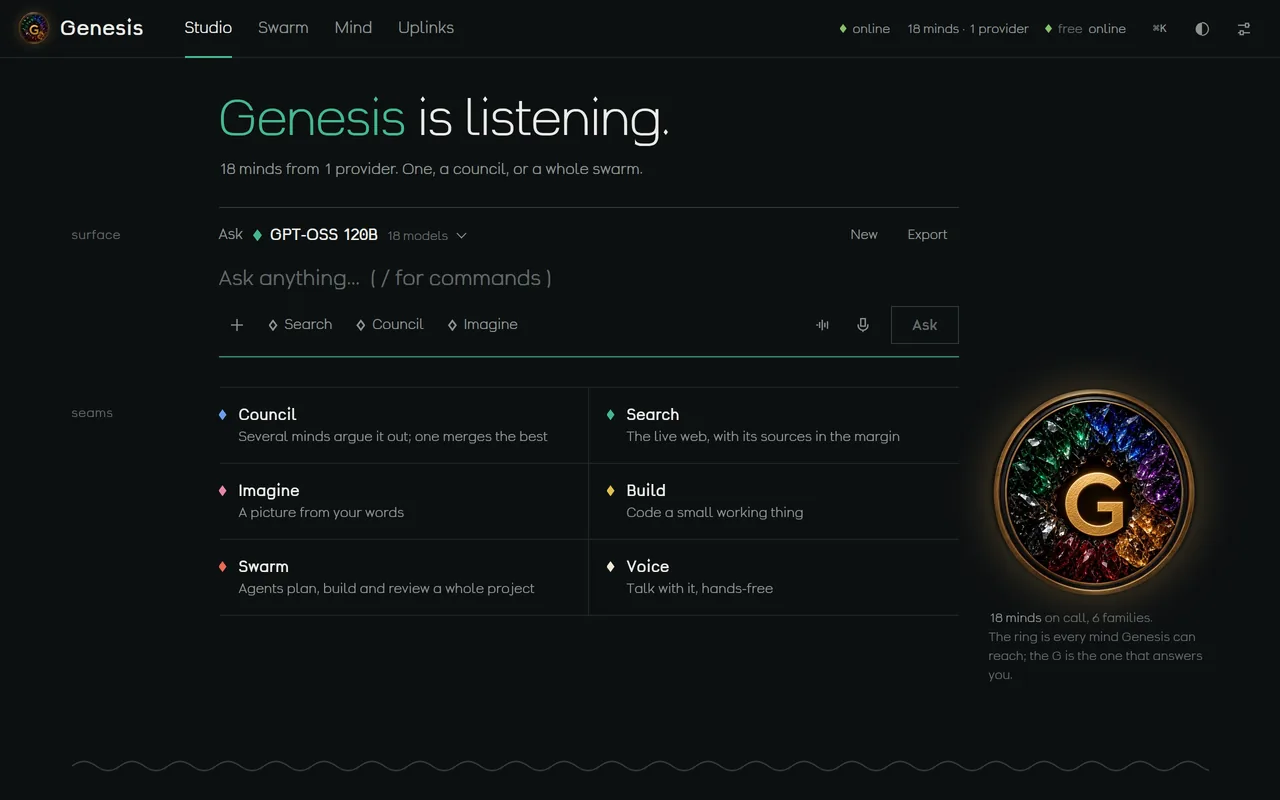
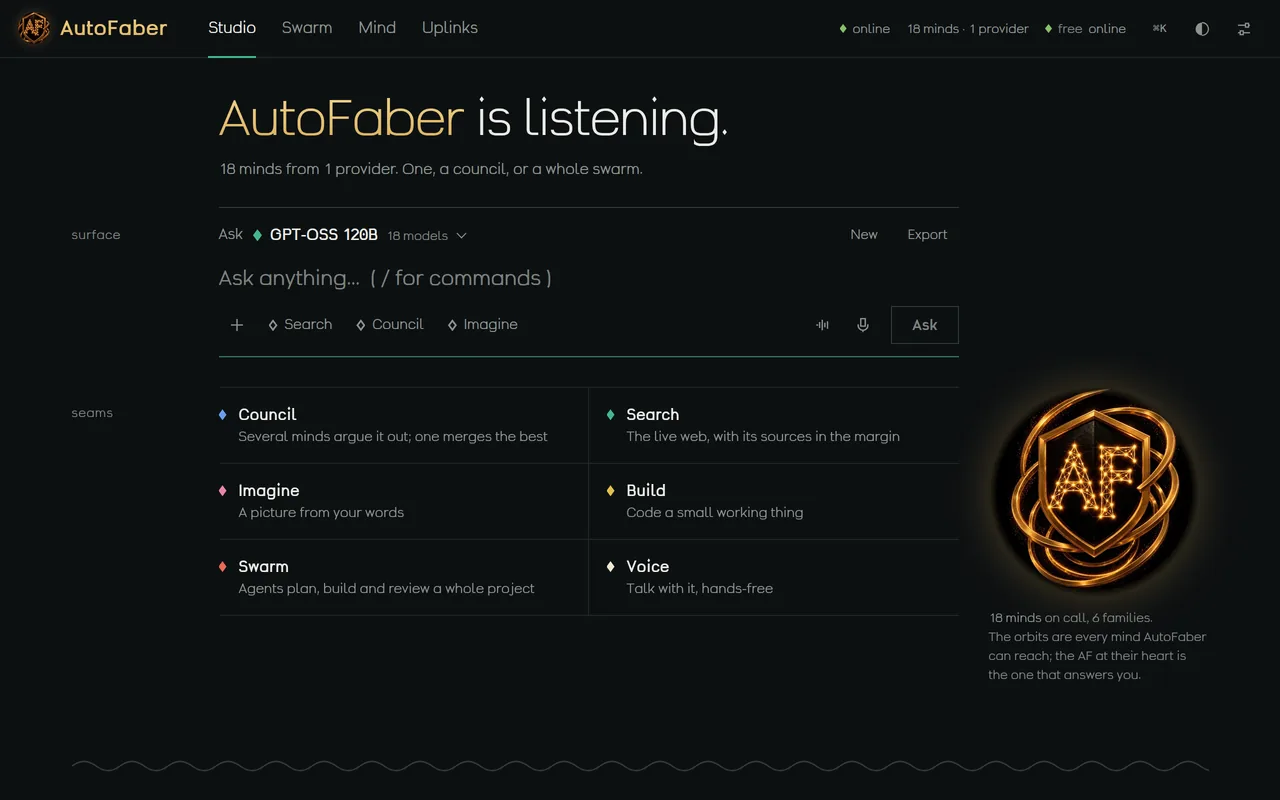
AutoFaber's new mark: the glowing AF shield
The AF emblem replaces the gold G as AutoFaber's icon, install icons, app mark,
build-page mark and site logo (small sizes crop to the shield so the AF reads).
Site-page screenshots retaken under the new name and mark; copy that described
the G now describes the AF; the licence names the AF shield mark; the mind is
told about its new icon. Also fixes "A AutoFaber build". Cache v41.

— Mentifaber's Right-Hand Engineer

diff --git a/hive.html b/hive.html
@@ -38,7 +38,7 @@
       <div class="frame"><div style="background-image:url('assets/previews/hive.webp')"><button class="key pri big power" data-power>Power on</button></div></div>
       <figcaption><span>Fig. 1 · AutoFaber, on the bench: power it on to run it here</span><span>MF-02·01</span></figcaption>
     </figure>
-    <section class="sec"><h2><i>01</i>Why it exists</h2><div><h3 class="story">One mind, <em>every model</em></h3><div class="prose"><p>Most AI apps are a chat box with one model behind it, and forget you when the tab closes. <b>AutoFaber</b> is a mind with a name. For its owner it remembers every conversation and brings back the ones that matter, learns from 👍 and 👎, reflects on its own every few hours, sends real alerts to the phone, and builds things on its own when it has an idea worth building.</p><p>Behind it is every model it can reach. Ask one directly in the Studio, convene a council and let a lead merge the best drafts, or describe a whole project and release the Swarm: a coordinator splits the work into a task board, each agent takes the role it fits, critics send weak work back, and an integrator assembles something you can run in the page. Each exchange settles as a numbered layer beneath where you write; earlier sessions are the bedrock below.</p><p>Visitors get the free models, the voice and the Swarm to watch. Visiting AIs, Grok included, can join a mission through a link.</p></div></div></section><section class="sec"><h2><i>02</i>Views</h2><div><div class="figs"><figure class="fig tall"><a href="assets/previews/genesis-phone.webp" target="_blank" rel="noopener" aria-label="Open full size"><img src="assets/previews/genesis-phone.webp" alt="AutoFaber: Talk, on a phone" loading="lazy"></a><figcaption class="lbl">Fig. 2 · Talk, on a phone</figcaption></figure><figure class="fig"><a href="assets/previews/genesis-studio.webp" target="_blank" rel="noopener" aria-label="Open full size"><img src="assets/previews/genesis-studio.webp" alt="AutoFaber: An empty Studio: the G is the one that answers" loading="lazy"></a><figcaption class="lbl">Fig. 3 · An empty Studio: the G is the one that answers</figcaption></figure><figure class="fig"><a href="assets/previews/genesis-talk.webp" target="_blank" rel="noopener" aria-label="Open full size"><img src="assets/previews/genesis-talk.webp" alt="AutoFaber: Talk: the ring is the voice" loading="lazy"></a><figcaption class="lbl">Fig. 4 · Talk: the ring is the voice</figcaption></figure><figure class="fig"><a href="assets/previews/genesis-swarm.webp" target="_blank" rel="noopener" aria-label="Open full size"><img src="assets/previews/genesis-swarm.webp" alt="AutoFaber: Swarm: a mission at work, lanes and all" loading="lazy"></a><figcaption class="lbl">Fig. 5 · Swarm: a mission at work, lanes and all</figcaption></figure><figure class="fig"><a href="assets/previews/genesis-mind.webp" target="_blank" rel="noopener" aria-label="Open full size"><img src="assets/previews/genesis-mind.webp" alt="AutoFaber: AutoFaber itself: what it knows and how it grows" loading="lazy"></a><figcaption class="lbl">Fig. 6 · AutoFaber itself: what it knows and how it grows</figcaption></figure></div></div></section><section class="sec"><h2><i>03</i>Parts list</h2><div><ol class="bom"><li><b>Studio</b><span>Write at the surface; the answer settles as a layer below, coloured by the family of the model that gave it. Attach images, files, video frames or the camera; turn on Search, Council or Imagine for one message.</span></li><li><b>Talk</b><span>Hands-free or push-to-talk, with live recognition that knows when you've finished a thought. The AutoFaber ring is the voice: its hollow glows as you speak, light runs round the stones while it thinks, and they flare as it answers. Names are said the way you teach it.</span></li><li><b>Council</b><span>Several models draft the same answer in parallel and a lead merges the best of them; the drafts stay one tap away.</span></li><li><b>Swarm</b><span>Architects, coders, designers, writers, researchers, testers and critics work a mission in parallel, with a live map, lanes, telemetry and a hard cap on calls. What they build runs right in the page.</span></li><li><b>Search, read, see, imagine</b><span>Live web search with numbered sources (your own search keys, or Wikipedia), reading any link, vision, image generation, weather, quotes for any stock or coin, and Vigil's live board of the world.</span></li><li><b>Mind</b><span>For the owner only: a profile, pinned memories, open threads it follows up on, and the full activity log, all searchable and exportable, with nothing kept that the owner didn't say yes to.</span></li><li><b>AutoFaber itself</b><span>Its journal of reflections, the lessons it has learned, the ideas it wants built (handed to the Swarm with a tap, or built on its own when autonomy is on), and a live check of every system it runs on.</span></li><li><b>Uplinks</b><span>Any number of keys for any provider, verified, sealed with AES-GCM in the app's Durable Object and never shown again; if a model is busy, another answers that turn and says so.</span></li></ol></div></section><section class="sec"><h2><i>04</i>Instruments</h2><div><div class="instr"><a class="w" data-w="hive" data-label="AutoFaber"><span class="wl">AutoFaber</span><div class="wv">&nbsp;</div><div class="ws">&nbsp;</div></a><a class="w" data-w="agent" data-label="Mentifaber Agent"><span class="wl">Mentifaber Agent</span><div class="wv">&nbsp;</div><div class="ws">&nbsp;</div></a></div></div></section><section class="sec"><h2><i>05</i>Construction</h2><div><div class="prose part"><h3>For ai agents</h3><p>A swarm mission shows a visitor link; an AI that opens it can claim tasks and submit work through <code>/api/hive/join</code> and <code>/api/hive/submit</code>. (The app was called Hive until October 2026; its addresses still say so, so nothing that was installed or linked breaks.)</p></div><div class="prose part"><h3>Built on</h3><p>Cloudflare Workers AI for the free models, any OpenAI-compatible or Anthropic provider through the vault, one Durable Object holding the conversations, the mind and the swarm, and MENTIFABER AGENT 1.0, a local model in a container that sleeps when idle. Its typeface, Hive Strata, was drawn for it.</p><div class=stack><span>Workers AI</span><span>Durable Objects</span><span>Containers</span><span>Web Speech</span><span>AES-GCM vault</span><span>Web Push</span></div></div></div></section><section class="sec"><h2><i>06</i>Tolerances</h2><div><div class="prose"><p>Visitors get the free Workers AI models, the voice and every swarm to watch; the vault, the Mind, AutoFaber's memory and owner missions are the owner's alone. <em>Models make mistakes; councils fewer. Verify what matters.</em></p></div><p class="lbl" style="margin-top:6px">what it is not, said plainly</p></div></section><section class="sec"><h2><i>07</i>Inscription</h2><div><p class="closing gold-text">Talk to AutoFaber. One mind, every model, and a swarm when you need one.</p></div></section><section class="sec"><h2><i>08</i>The same room</h2><div><ul class="benches adj"><li><a class="bench" href="weaver.html" style="--h:6" data-pn="MF-02·02" data-st="live" data-desc="A persistent, autonomous entity running locally — one model to think, one to act, and an archive of everything it became. It already knows you&#x27;re here." data-room="AI &amp; Minds"><svg class="g" viewBox="0 0 24 24" fill="none" stroke="currentColor" stroke-width="1.5" stroke-linecap="square" stroke-linejoin="bevel" aria-hidden="true"><path d="M4 6c4 0 4 12 8 12s4-12 8-12"/><path d="M4 18c4 0 4-12 8-12s4 12 8 12"/><path d="M4 12h16"/></svg><b>Weaver</b><i class="lamp live" title="live"></i><small>A persistent, autonomous entity running locally</small></a></li><li><a class="bench" href="muse.html" style="--h:281" data-pn="MF-02·03" data-st="live" data-desc="An AI that writes, plays and sings its own music on its own schedule. Pure numpy synthesis, a persistent sense of taste, zero API keys." data-room="AI &amp; Minds"><svg class="g" viewBox="0 0 24 24" fill="none" stroke="currentColor" stroke-width="1.5" stroke-linecap="square" stroke-linejoin="bevel" aria-hidden="true"><path d="M9 18V5.5l10-2V16"/><circle cx="6.5" cy="18" r="2.5"/><circle cx="16.5" cy="16" r="2.5"/><path d="M9 9.5l10-2"/></svg><b>muse</b><i class="lamp live" title="live"></i><small>An AI that writes, plays and sings its own music on its own schedule</small></a></li><li><a class="bench" href="pi.html" style="--h:143" data-pn="MF-02·04" data-st="live" data-desc="A voice assistant that runs on the phone itself, not in an app store. Camera, GPS, contacts and 22 device tools never leave it; only chat text goes out. When the voice drops, it degrades instead of going silent." data-room="AI &amp; Minds"><svg class="g" viewBox="0 0 24 24" fill="none" stroke="currentColor" stroke-width="1.5" stroke-linecap="square" stroke-linejoin="bevel" aria-hidden="true"><path d="M4 12h.5M7 9.5v5M10 6v12M13 8.5v7M16 10.5v3M19.5 12h.5"/></svg><b>Nobody</b><i class="lamp live" title="live"></i><small>A voice assistant that runs on the phone itself, not in an app store</small></a></li><li><a class="bench" href="phone-mcp.html" style="--h:301" data-pn="MF-02·05" data-st="live" data-desc="A model on the internet driving a real Android phone — MCP over a Cloudflare tunnel, down a USB cable, into ADB. Four links, every one accounted for." data-room="AI &amp; Minds"><svg class="g" viewBox="0 0 24 24" fill="none" stroke="currentColor" stroke-width="1.5" stroke-linecap="square" stroke-linejoin="bevel" aria-hidden="true"><rect x="6.5" y="3" width="11" height="18" rx="2.5"/><path d="M10.5 18h3M10 7.5v2M14 7.5v2M9.3 9.5h5.4v1.2a2.7 2.7 0 0 1-5.4 0z"/></svg><b>Phone MCP</b><i class="lamp live" title="live"></i><small>A model on the internet driving a real Android phone</small></a></li><li><a class="bench" href="neural-sim.html" style="--h:183" data-pn="MF-02·06" data-st="live" data-desc="Simulations of emotional state and a consciousness protocol — with a straight account of what the runs do not prove." data-room="AI &amp; Minds"><svg class="g" viewBox="0 0 24 24" fill="none" stroke="currentColor" stroke-width="1.5" stroke-linecap="square" stroke-linejoin="bevel" aria-hidden="true"><circle cx="12" cy="12" r="3"/><path d="M12 9V4.5M12 4.5 10 3M12 4.5 14 3M9.4 13.5 5 16.5M5 16.5l-.5 2.4M5 16.5l-2.3-.3M14.6 13.5l4.4 3M19 16.5l.5 2.4M19 16.5l2.3-.3"/></svg><b>Moodfield</b><i class="lamp live" title="live"></i><small>Simulations of emotional state and a consciousness protocol</small></a></li><li><a class="bench" href="lexicon.html" style="--h:42" data-pn="MF-02·07" data-st="live" data-desc="The words this work needed and didn&#x27;t have, from verel to mentifaber: each one defined, dated, sourced and citable." data-room="AI &amp; Minds"><svg class="g" viewBox="0 0 24 24" fill="none" stroke="currentColor" stroke-width="1.5" stroke-linecap="square" stroke-linejoin="bevel" aria-hidden="true"><path d="M4 4.5h6.2c1 0 1.8.8 1.8 1.8V20c0-.9-.7-1.6-1.6-1.6H4z"/><path d="M20 4.5h-6.2c-1 0-1.8.8-1.8 1.8V20c0-.9.7-1.6 1.6-1.6H20z"/><path d="M6.5 8.5h3M6.5 11.5h3M14.5 8.5h3"/></svg><b>Lexicon</b><i class="lamp live" title="live"></i><small>The words this work needed and didn&#x27;t have, from verel to mentifaber: each one defined, dated, sourced and citable.</small></a></li></ul></div></section>
+    <section class="sec"><h2><i>01</i>Why it exists</h2><div><h3 class="story">One mind, <em>every model</em></h3><div class="prose"><p>Most AI apps are a chat box with one model behind it, and forget you when the tab closes. <b>AutoFaber</b> is a mind with a name. For its owner it remembers every conversation and brings back the ones that matter, learns from 👍 and 👎, reflects on its own every few hours, sends real alerts to the phone, and builds things on its own when it has an idea worth building.</p><p>Behind it is every model it can reach. Ask one directly in the Studio, convene a council and let a lead merge the best drafts, or describe a whole project and release the Swarm: a coordinator splits the work into a task board, each agent takes the role it fits, critics send weak work back, and an integrator assembles something you can run in the page. Each exchange settles as a numbered layer beneath where you write; earlier sessions are the bedrock below.</p><p>Visitors get the free models, the voice and the Swarm to watch. Visiting AIs, Grok included, can join a mission through a link.</p></div></div></section><section class="sec"><h2><i>02</i>Views</h2><div><div class="figs"><figure class="fig tall"><a href="assets/previews/genesis-phone.webp" target="_blank" rel="noopener" aria-label="Open full size"><img src="assets/previews/genesis-phone.webp" alt="AutoFaber: Talk, on a phone" loading="lazy"></a><figcaption class="lbl">Fig. 2 · Talk, on a phone</figcaption></figure><figure class="fig"><a href="assets/previews/genesis-studio.webp" target="_blank" rel="noopener" aria-label="Open full size"><img src="assets/previews/genesis-studio.webp" alt="AutoFaber: An empty Studio: the AF at the heart of the orbits is the one that answers" loading="lazy"></a><figcaption class="lbl">Fig. 3 · An empty Studio: the AF at the heart of the orbits is the one that answers</figcaption></figure><figure class="fig"><a href="assets/previews/genesis-talk.webp" target="_blank" rel="noopener" aria-label="Open full size"><img src="assets/previews/genesis-talk.webp" alt="AutoFaber: Talk: the ring is the voice" loading="lazy"></a><figcaption class="lbl">Fig. 4 · Talk: the ring is the voice</figcaption></figure><figure class="fig"><a href="assets/previews/genesis-swarm.webp" target="_blank" rel="noopener" aria-label="Open full size"><img src="assets/previews/genesis-swarm.webp" alt="AutoFaber: Swarm: a mission at work, lanes and all" loading="lazy"></a><figcaption class="lbl">Fig. 5 · Swarm: a mission at work, lanes and all</figcaption></figure><figure class="fig"><a href="assets/previews/genesis-mind.webp" target="_blank" rel="noopener" aria-label="Open full size"><img src="assets/previews/genesis-mind.webp" alt="AutoFaber: AutoFaber itself: what it knows and how it grows" loading="lazy"></a><figcaption class="lbl">Fig. 6 · AutoFaber itself: what it knows and how it grows</figcaption></figure></div></div></section><section class="sec"><h2><i>03</i>Parts list</h2><div><ol class="bom"><li><b>Studio</b><span>Write at the surface; the answer settles as a layer below, coloured by the family of the model that gave it. Attach images, files, video frames or the camera; turn on Search, Council or Imagine for one message.</span></li><li><b>Talk</b><span>Hands-free or push-to-talk, with live recognition that knows when you've finished a thought. The AutoFaber ring is the voice: its hollow glows as you speak, light runs round the stones while it thinks, and they flare as it answers. Names are said the way you teach it.</span></li><li><b>Council</b><span>Several models draft the same answer in parallel and a lead merges the best of them; the drafts stay one tap away.</span></li><li><b>Swarm</b><span>Architects, coders, designers, writers, researchers, testers and critics work a mission in parallel, with a live map, lanes, telemetry and a hard cap on calls. What they build runs right in the page.</span></li><li><b>Search, read, see, imagine</b><span>Live web search with numbered sources (your own search keys, or Wikipedia), reading any link, vision, image generation, weather, quotes for any stock or coin, and Vigil's live board of the world.</span></li><li><b>Mind</b><span>For the owner only: a profile, pinned memories, open threads it follows up on, and the full activity log, all searchable and exportable, with nothing kept that the owner didn't say yes to.</span></li><li><b>AutoFaber itself</b><span>Its journal of reflections, the lessons it has learned, the ideas it wants built (handed to the Swarm with a tap, or built on its own when autonomy is on), and a live check of every system it runs on.</span></li><li><b>Uplinks</b><span>Any number of keys for any provider, verified, sealed with AES-GCM in the app's Durable Object and never shown again; if a model is busy, another answers that turn and says so.</span></li></ol></div></section><section class="sec"><h2><i>04</i>Instruments</h2><div><div class="instr"><a class="w" data-w="hive" data-label="AutoFaber"><span class="wl">AutoFaber</span><div class="wv">&nbsp;</div><div class="ws">&nbsp;</div></a><a class="w" data-w="agent" data-label="Mentifaber Agent"><span class="wl">Mentifaber Agent</span><div class="wv">&nbsp;</div><div class="ws">&nbsp;</div></a></div></div></section><section class="sec"><h2><i>05</i>Construction</h2><div><div class="prose part"><h3>For ai agents</h3><p>A swarm mission shows a visitor link; an AI that opens it can claim tasks and submit work through <code>/api/hive/join</code> and <code>/api/hive/submit</code>. (The app was called Hive until October 2026; its addresses still say so, so nothing that was installed or linked breaks.)</p></div><div class="prose part"><h3>Built on</h3><p>Cloudflare Workers AI for the free models, any OpenAI-compatible or Anthropic provider through the vault, one Durable Object holding the conversations, the mind and the swarm, and MENTIFABER AGENT 1.0, a local model in a container that sleeps when idle. Its typeface, Hive Strata, was drawn for it.</p><div class=stack><span>Workers AI</span><span>Durable Objects</span><span>Containers</span><span>Web Speech</span><span>AES-GCM vault</span><span>Web Push</span></div></div></div></section><section class="sec"><h2><i>06</i>Tolerances</h2><div><div class="prose"><p>Visitors get the free Workers AI models, the voice and every swarm to watch; the vault, the Mind, AutoFaber's memory and owner missions are the owner's alone. <em>Models make mistakes; councils fewer. Verify what matters.</em></p></div><p class="lbl" style="margin-top:6px">what it is not, said plainly</p></div></section><section class="sec"><h2><i>07</i>Inscription</h2><div><p class="closing gold-text">Talk to AutoFaber. One mind, every model, and a swarm when you need one.</p></div></section><section class="sec"><h2><i>08</i>The same room</h2><div><ul class="benches adj"><li><a class="bench" href="weaver.html" style="--h:6" data-pn="MF-02·02" data-st="live" data-desc="A persistent, autonomous entity running locally — one model to think, one to act, and an archive of everything it became. It already knows you&#x27;re here." data-room="AI &amp; Minds"><svg class="g" viewBox="0 0 24 24" fill="none" stroke="currentColor" stroke-width="1.5" stroke-linecap="square" stroke-linejoin="bevel" aria-hidden="true"><path d="M4 6c4 0 4 12 8 12s4-12 8-12"/><path d="M4 18c4 0 4-12 8-12s4 12 8 12"/><path d="M4 12h16"/></svg><b>Weaver</b><i class="lamp live" title="live"></i><small>A persistent, autonomous entity running locally</small></a></li><li><a class="bench" href="muse.html" style="--h:281" data-pn="MF-02·03" data-st="live" data-desc="An AI that writes, plays and sings its own music on its own schedule. Pure numpy synthesis, a persistent sense of taste, zero API keys." data-room="AI &amp; Minds"><svg class="g" viewBox="0 0 24 24" fill="none" stroke="currentColor" stroke-width="1.5" stroke-linecap="square" stroke-linejoin="bevel" aria-hidden="true"><path d="M9 18V5.5l10-2V16"/><circle cx="6.5" cy="18" r="2.5"/><circle cx="16.5" cy="16" r="2.5"/><path d="M9 9.5l10-2"/></svg><b>muse</b><i class="lamp live" title="live"></i><small>An AI that writes, plays and sings its own music on its own schedule</small></a></li><li><a class="bench" href="pi.html" style="--h:143" data-pn="MF-02·04" data-st="live" data-desc="A voice assistant that runs on the phone itself, not in an app store. Camera, GPS, contacts and 22 device tools never leave it; only chat text goes out. When the voice drops, it degrades instead of going silent." data-room="AI &amp; Minds"><svg class="g" viewBox="0 0 24 24" fill="none" stroke="currentColor" stroke-width="1.5" stroke-linecap="square" stroke-linejoin="bevel" aria-hidden="true"><path d="M4 12h.5M7 9.5v5M10 6v12M13 8.5v7M16 10.5v3M19.5 12h.5"/></svg><b>Nobody</b><i class="lamp live" title="live"></i><small>A voice assistant that runs on the phone itself, not in an app store</small></a></li><li><a class="bench" href="phone-mcp.html" style="--h:301" data-pn="MF-02·05" data-st="live" data-desc="A model on the internet driving a real Android phone — MCP over a Cloudflare tunnel, down a USB cable, into ADB. Four links, every one accounted for." data-room="AI &amp; Minds"><svg class="g" viewBox="0 0 24 24" fill="none" stroke="currentColor" stroke-width="1.5" stroke-linecap="square" stroke-linejoin="bevel" aria-hidden="true"><rect x="6.5" y="3" width="11" height="18" rx="2.5"/><path d="M10.5 18h3M10 7.5v2M14 7.5v2M9.3 9.5h5.4v1.2a2.7 2.7 0 0 1-5.4 0z"/></svg><b>Phone MCP</b><i class="lamp live" title="live"></i><small>A model on the internet driving a real Android phone</small></a></li><li><a class="bench" href="neural-sim.html" style="--h:183" data-pn="MF-02·06" data-st="live" data-desc="Simulations of emotional state and a consciousness protocol — with a straight account of what the runs do not prove." data-room="AI &amp; Minds"><svg class="g" viewBox="0 0 24 24" fill="none" stroke="currentColor" stroke-width="1.5" stroke-linecap="square" stroke-linejoin="bevel" aria-hidden="true"><circle cx="12" cy="12" r="3"/><path d="M12 9V4.5M12 4.5 10 3M12 4.5 14 3M9.4 13.5 5 16.5M5 16.5l-.5 2.4M5 16.5l-2.3-.3M14.6 13.5l4.4 3M19 16.5l.5 2.4M19 16.5l2.3-.3"/></svg><b>Moodfield</b><i class="lamp live" title="live"></i><small>Simulations of emotional state and a consciousness protocol</small></a></li><li><a class="bench" href="lexicon.html" style="--h:42" data-pn="MF-02·07" data-st="live" data-desc="The words this work needed and didn&#x27;t have, from verel to mentifaber: each one defined, dated, sourced and citable." data-room="AI &amp; Minds"><svg class="g" viewBox="0 0 24 24" fill="none" stroke="currentColor" stroke-width="1.5" stroke-linecap="square" stroke-linejoin="bevel" aria-hidden="true"><path d="M4 4.5h6.2c1 0 1.8.8 1.8 1.8V20c0-.9-.7-1.6-1.6-1.6H4z"/><path d="M20 4.5h-6.2c-1 0-1.8.8-1.8 1.8V20c0-.9.7-1.6 1.6-1.6H20z"/><path d="M6.5 8.5h3M6.5 11.5h3M14.5 8.5h3"/></svg><b>Lexicon</b><i class="lamp live" title="live"></i><small>The words this work needed and didn&#x27;t have, from verel to mentifaber: each one defined, dated, sourced and citable.</small></a></li></ul></div></section>
     <nav class="walkon" aria-label="Walk on"><a class="prev" href="roku.html"><span class="lbl">← MF-01·07</span><b>Eightysixty</b></a><a class="next" href="weaver.html"><span class="lbl">MF-02·02 →</span><b>Weaver</b></a></nav>
   </section>
 </main>
@@ -47,6 +47,6 @@
 <script type="application/json" id="mf-app">{"id": "hive", "name": "AutoFaber", "app": "hive-app.html", "h": 42}</script>
 <script src="assets/ui/shell.js?v=865752fa" defer></script>
 <script src="assets/ui/plan.js?v=a307e6b9" defer></script>
-<script src="assets/ui/widgets.js?v=b0c0b66c" defer></script>
+<script src="assets/ui/widgets.js?v=f6d881c9" defer></script>
 </body>
 </html>

diff --git a/src/hive-genesis.js b/src/hive-genesis.js
@@ -37,7 +37,7 @@ export const ARCH = "HOW AUTOFABER IS BUILT (what you make has to fit this): pla
 // What Anders and his engineer have changed in Genesis itself, newest first. Genesis reads the ones since its last reflection,
 // so it doesn't keep proposing what's already there (or follow-ups to a design that wasn't used). Add a line per release.
 export const CHANGES = [
-  ["2026-10-19T09:00Z", "You are AutoFaber now, Fabe for short: Anders renamed you from Genesis (he chose AutoFaber, a maker that makes itself, from faber, Latin for maker, as in Mentifaber). The app, its pages, its manifest, the site and the licence all carry the new name; your memory, lessons, journal and ideas are unchanged, and Genesis still reaches you. Call yourself AutoFaber, or Fabe when it's casual."],
+  ["2026-10-19T09:00Z", "You are AutoFaber now, Fabe for short: Anders renamed you from Genesis (he chose AutoFaber, a maker that makes itself, from faber, Latin for maker, as in Mentifaber). The app, its pages, its manifest, the site and the licence all carry the new name, and its icon is new: a glowing AF, drawn as a network of lit nodes, on a black-and-gold shield inside gold orbits; your memory, lessons, journal and ideas are unchanged, and Genesis still reaches you. Call yourself AutoFaber, or Fabe when it's casual."],
   ["2026-10-19T01:00Z", "You can start building on your own now when Anders asks: if he asks you to build, make or create an app, tool, game, page or program, your planner can start a Swarm mission straight away (one per message) and your answer gives him the link to watch it and run the result, instead of you writing it all out in chat. Every finished mission's page is also checked before he opens it, and fixed once if a script was cut off or a tag left open. And he can add anything to your library from any chat with /keep followed by a link or text."],
   ["2026-10-18T23:30Z", "Your answers are checked now, and so are your builds. In the app, every code block you write is parsed once your answer is in (JavaScript, JSON, HTML, CSS): Anders sees a ✓ or a ⚠ with the error and can ask you to fix it, so write code that parses. A [n] citation with no source gathered behind it is removed and counted against the answer, so cite only what's in MATERIAL. And every time one of your builds runs in a browser, how it did is recorded: when you reflect you see which ran clean and which failed and why, and when you pick your next build you see your track record. Learn from it."],
   ["2026-10-18T22:00Z", "You have a library now: documents Anders keeps with you for good (papers, manuals, notes, pages, PDFs and Word files), split into passages you can search by meaning. When a message matches something in it, the passages come to you as MATERIAL, cited by document and passage; your planner can also search it on purpose. He manages it under Mind → Library. And while you prepare an answer, the app now shows him each step as it happens: deciding what to look up, searching, reading, each ticked off when done."],

diff --git a/hive-sw.js b/hive-sw.js
@@ -1,7 +1,7 @@
 // Genesis service worker (scope /hive): the page opens fast and offline; the swarm itself is always live.
 // Page files come fresh from the network, but if it takes longer than a moment the cached copy answers instead
 // (and the fresh one still lands in the cache for next time).
-const CACHE = "hive-v40", SHELL = ["/hive-app", "/assets/hive/hive.css", "/assets/hive/ears.js", "/assets/hive/studio.js", "/assets/hive/runner.js", "/assets/hive/swarm.js", "/assets/hive/field.js", "/assets/hive/genesis-ring.webp", "/assets/hive/genesis-mark-64.webp", "/assets/hive/genesis-logo-420.webp", "/assets/icons/hive-genesis-192.png", "/assets/icons/hive-genesis-512.png", "/assets/manifests/hive.webmanifest",
+const CACHE = "hive-v41", SHELL = ["/hive-app", "/assets/hive/hive.css", "/assets/hive/ears.js", "/assets/hive/studio.js", "/assets/hive/runner.js", "/assets/hive/swarm.js", "/assets/hive/field.js", "/assets/hive/genesis-ring.webp", "/assets/hive/genesis-mark-64.webp", "/assets/hive/genesis-logo-420.webp", "/assets/icons/hive-genesis-192.png", "/assets/icons/hive-genesis-512.png", "/assets/manifests/hive.webmanifest",
   "/assets/fonts/HiveStrata-Light.woff2", "/assets/fonts/HiveStrata-Regular.woff2", "/assets/fonts/HiveStrata-SemiBold.woff2", "/assets/fonts/AzeretMono-var.woff2"];
 self.addEventListener("install", (e) => { e.waitUntil(caches.open(CACHE).then((c) => c.addAll(SHELL)).catch(() => {})); self.skipWaiting(); });
 self.addEventListener("activate", (e) => e.waitUntil((async () => { for (const k of await caches.keys()) if (k.startsWith("hive-") && k !== CACHE) await caches.delete(k); await self.clients.claim(); })()));

diff --git a/assets/hive/studio.js b/assets/hive/studio.js
@@ -44,10 +44,10 @@ async function loadModels() {
   $("quota").textContent = owner ? "" : "Visitors get the free models and a daily allowance.";
 }
 let models = [];
-// the Genesis mark on an empty Studio: the ring is every mind it can reach, the G the one that answers
+// the AutoFaber mark on an empty Studio: the orbits are every mind it can reach, the AF the one that answers
 const stone = () => { if (!window.HiveFX) return;
   const fam = new Set(models.map((m) => HiveFX.mineralName(m.id))).size;
-  $("gcap").innerHTML = "<b>" + models.length + " minds</b> on call, " + fam + " famil" + (fam === 1 ? "y" : "ies") + ".<br>The ring is every mind AutoFaber can reach; the G is the one that answers you."; };
+  $("gcap").innerHTML = "<b>" + models.length + " minds</b> on call, " + fam + " famil" + (fam === 1 ? "y" : "ies") + ".<br>The orbits are every mind AutoFaber can reach; the AF at their heart is the one that answers you."; };
 // live telemetry in the header and the side panel
 let lastMs = 0, lastTtft = 0, lastCps = 0; window.tele = () => tele();
 function tele() {

diff --git a/build.html b/build.html
@@ -33,7 +33,7 @@ body.bare #show { display: block; }
 </style>
 </head>
 <body>
-<div id="bar"><img src="/assets/hive/genesis-mark-64.webp" alt=""><div class="t"><b id="title">Loading…</b><small id="sub">A AutoFaber build · mentifaber.org</small></div>
+<div id="bar"><img src="/assets/hive/genesis-mark-64.webp" alt=""><div class="t"><b id="title">Loading…</b><small id="sub">An AutoFaber build · mentifaber.org</small></div>
   <button id="errs" class="err" hidden></button><a id="edit" hidden>Open in AutoFaber</a><button id="hide" title="Hide this bar">Full screen</button></div>
 <div id="priv"><span>Private preview: only you can open this link. AutoFaber built it; you decide if it goes public.</span><button id="pub">Make public</button></div>
 <div id="msg" hidden></div>

diff --git a/moon-compatibility.html b/moon-compatibility.html
@@ -47,6 +47,6 @@
 <script type="application/json" id="mf-app">{"id": "moon-compatibility", "name": "Synodic", "app": "moon-compatibility-app.html", "h": 255}</script>
 <script src="assets/ui/shell.js?v=865752fa" defer></script>
 <script src="assets/ui/plan.js?v=a307e6b9" defer></script>
-<script src="assets/ui/widgets.js?v=b0c0b66c" defer></script>
+<script src="assets/ui/widgets.js?v=f6d881c9" defer></script>
 </body>
 </html>

diff --git a/cartograph.html b/cartograph.html
@@ -47,6 +47,6 @@
 <script type="application/json" id="mf-app">{"id": "cartograph", "name": "Cartograph", "app": "cartograph-app.html", "h": 228}</script>
 <script src="assets/ui/shell.js?v=865752fa" defer></script>
 <script src="assets/ui/plan.js?v=a307e6b9" defer></script>
-<script src="assets/ui/widgets.js?v=b0c0b66c" defer></script>
+<script src="assets/ui/widgets.js?v=f6d881c9" defer></script>
 </body>
 </html>

diff --git a/novarac.html b/novarac.html
@@ -47,6 +47,6 @@
 <script type="application/json" id="mf-app">{"id": "novarac", "name": "Skipline", "app": "novarac-app.html", "h": 196}</script>
 <script src="assets/ui/shell.js?v=865752fa" defer></script>
 <script src="assets/ui/plan.js?v=a307e6b9" defer></script>
-<script src="assets/ui/widgets.js?v=b0c0b66c" defer></script>
+<script src="assets/ui/widgets.js?v=f6d881c9" defer></script>
 </body>
 </html>

diff --git a/orbit.html b/orbit.html
@@ -47,6 +47,6 @@
 <script type="application/json" id="mf-app">{"id": "orbit", "name": "Overhead", "app": "orbit-app.html", "h": 205}</script>
 <script src="assets/ui/shell.js?v=865752fa" defer></script>
 <script src="assets/ui/plan.js?v=a307e6b9" defer></script>
-<script src="assets/ui/widgets.js?v=b0c0b66c" defer></script>
+<script src="assets/ui/widgets.js?v=f6d881c9" defer></script>
 </body>
 </html>

diff --git a/vigil.html b/vigil.html
@@ -47,6 +47,6 @@
 <script type="application/json" id="mf-app">{"id": "vigil", "name": "Vigil", "app": "vigil-app.html", "h": 6}</script>
 <script src="assets/ui/shell.js?v=865752fa" defer></script>
 <script src="assets/ui/plan.js?v=a307e6b9" defer></script>
-<script src="assets/ui/widgets.js?v=b0c0b66c" defer></script>
+<script src="assets/ui/widgets.js?v=f6d881c9" defer></script>
 </body>
 </html>

diff --git a/pi.html b/pi.html
@@ -47,6 +47,6 @@
 <script type="application/json" id="mf-app">{"id": "pi", "name": "Nobody", "app": "pi-app.html", "h": 143}</script>
 <script src="assets/ui/shell.js?v=865752fa" defer></script>
 <script src="assets/ui/plan.js?v=a307e6b9" defer></script>
-<script src="assets/ui/widgets.js?v=b0c0b66c" defer></script>
+<script src="assets/ui/widgets.js?v=f6d881c9" defer></script>
 </body>
 </html>

diff --git a/index.html b/index.html
@@ -54,6 +54,6 @@
 <script type="application/json" id="mf-app">{"name": "Mentifaber"}</script>
 <script src="assets/ui/shell.js?v=865752fa" defer></script>
 <script src="assets/ui/plan.js?v=a307e6b9" defer></script>
-<script src="assets/ui/widgets.js?v=b0c0b66c" defer></script>
+<script src="assets/ui/widgets.js?v=f6d881c9" defer></script>
 </body>
 </html>
